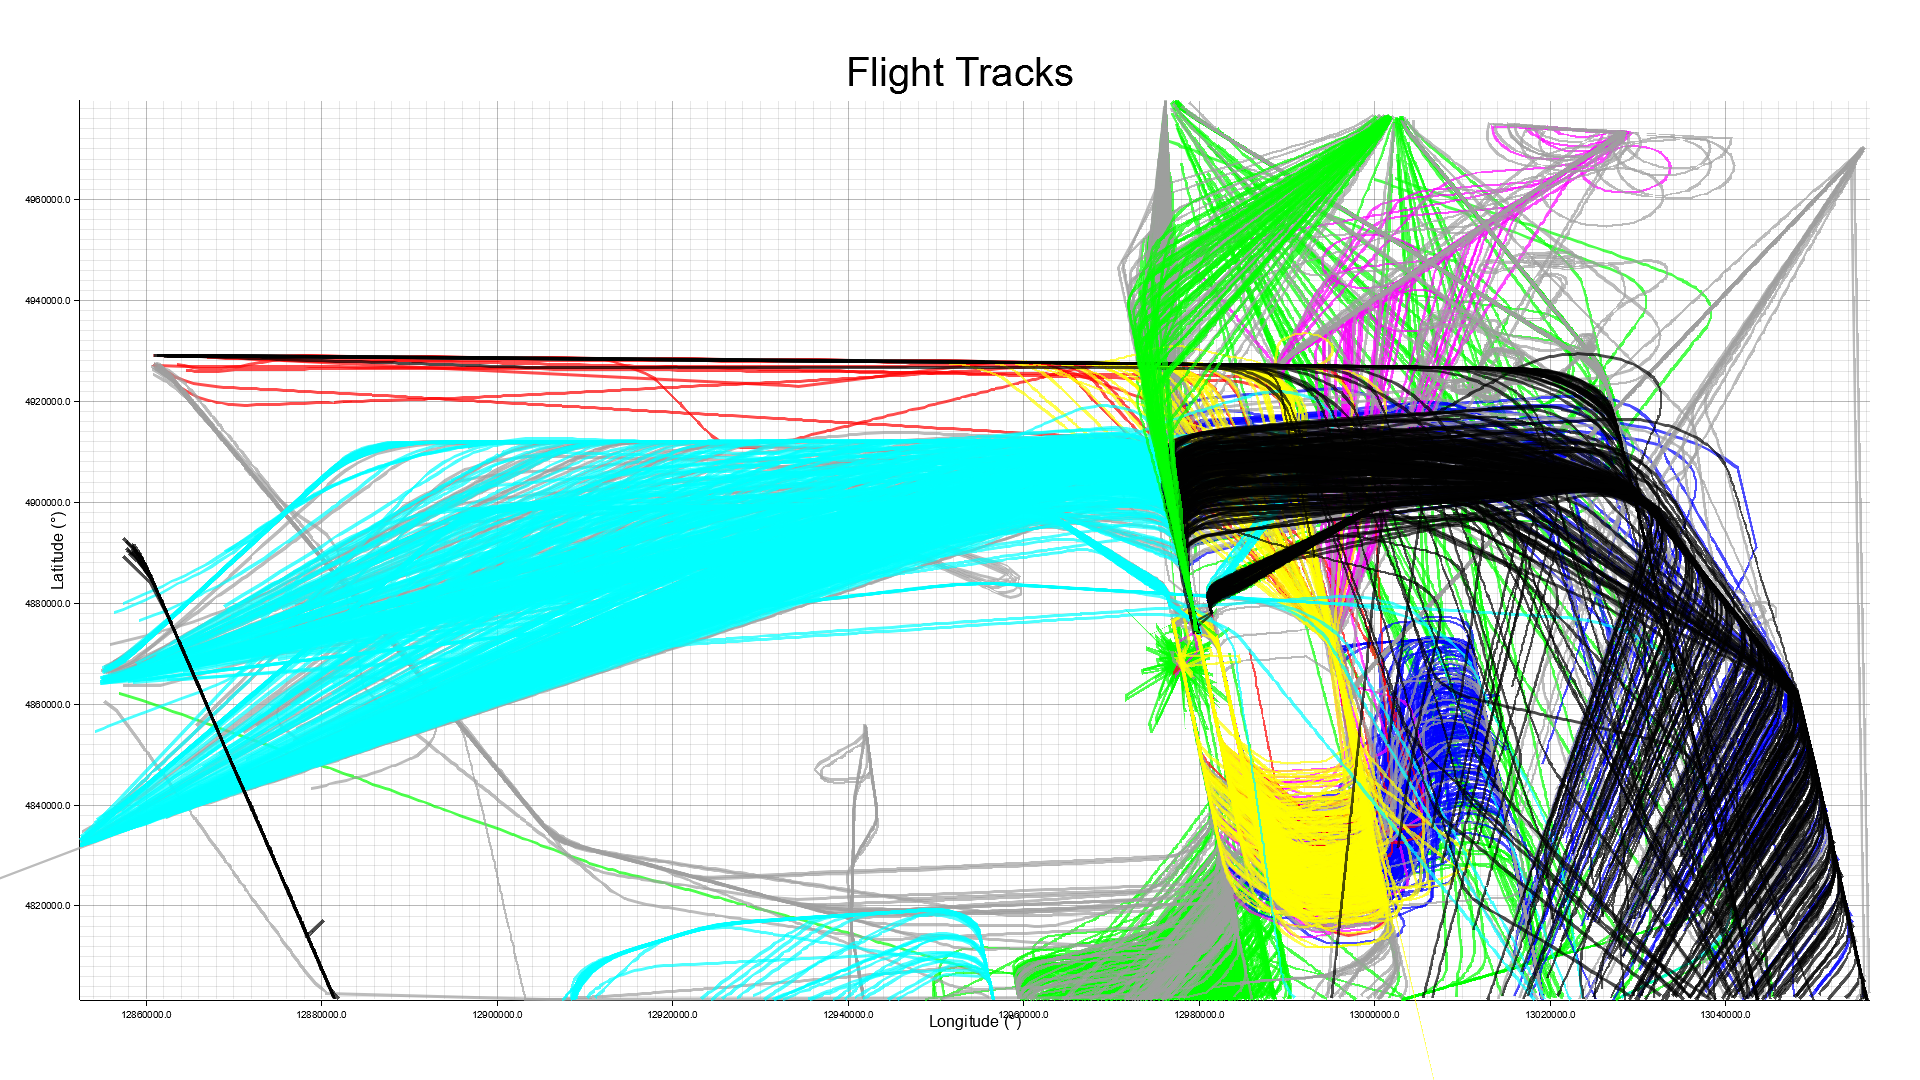
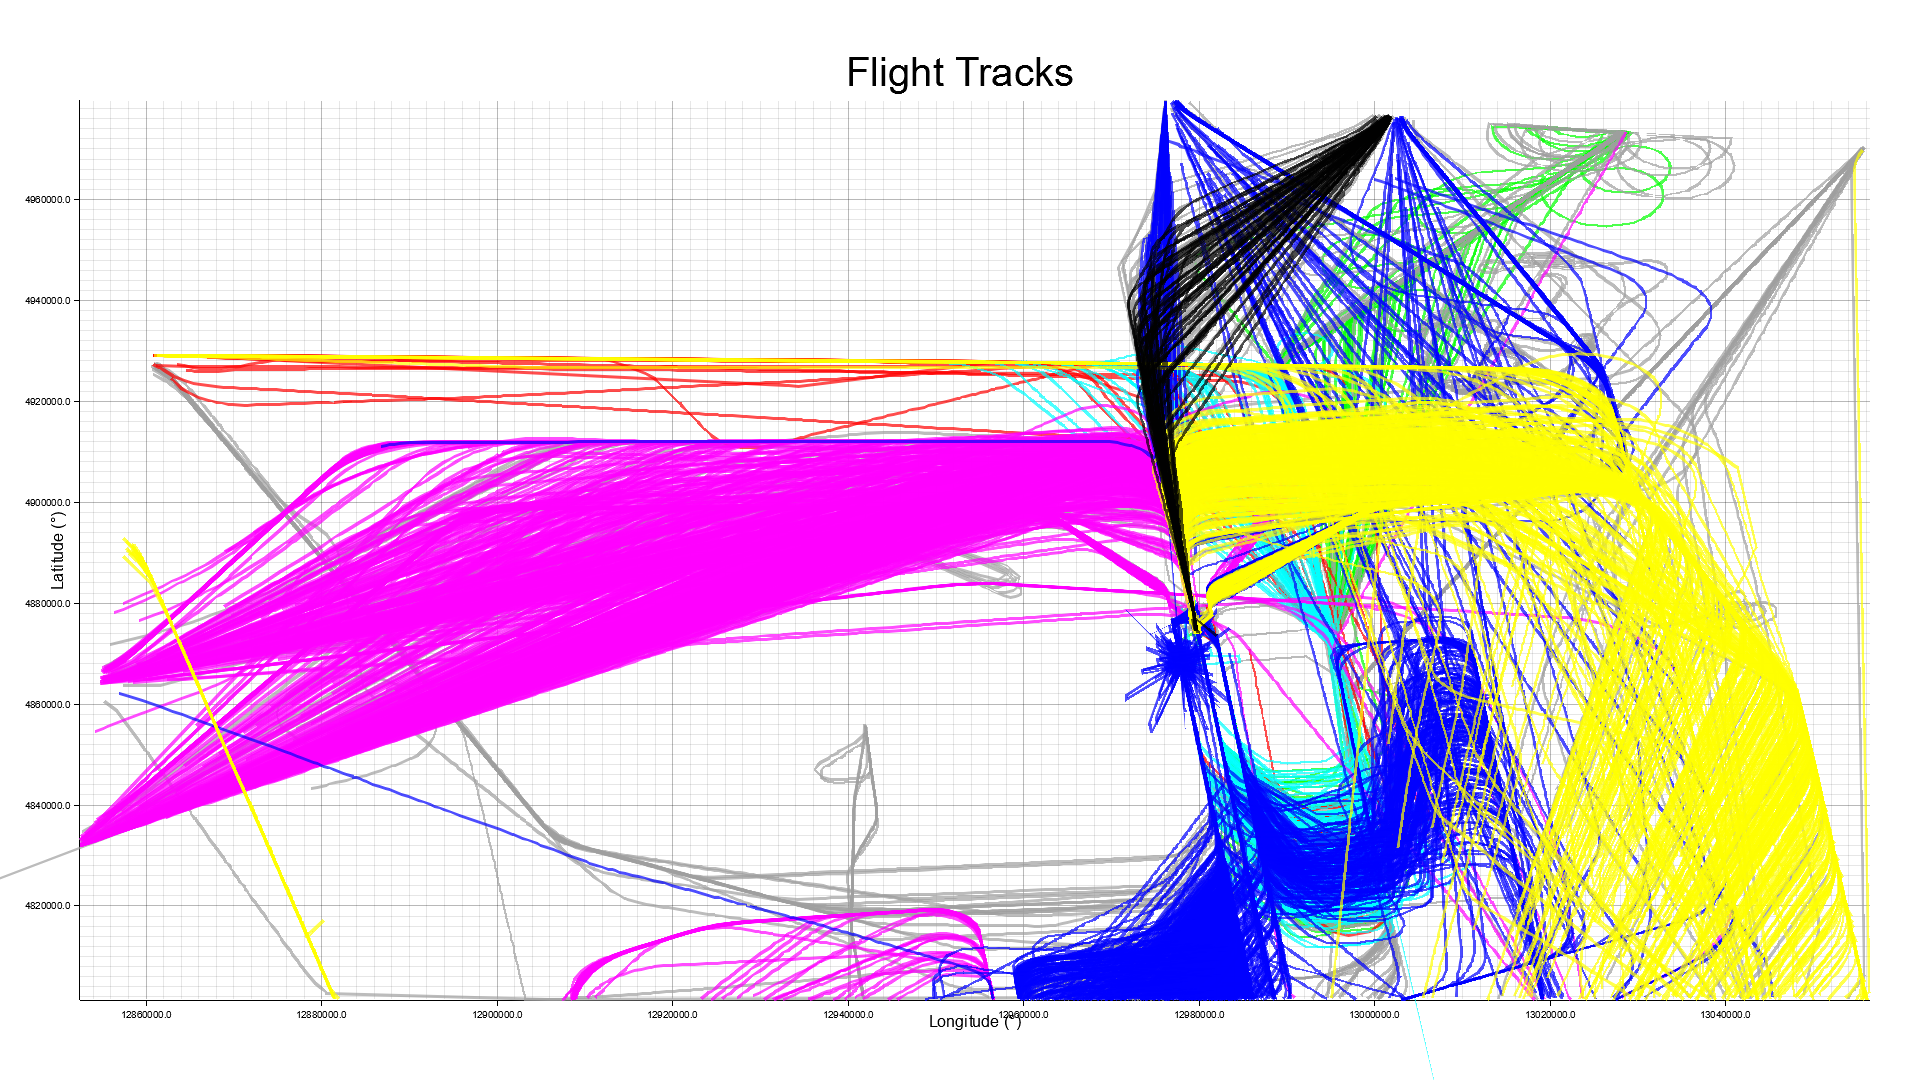
Add calculate_silhouette

diff --git a/crates/dbscan/src/lib.rs b/crates/dbscan/src/lib.rs
@@ -1,6 +1,6 @@
 use chrono::{Duration, NaiveDateTime};
 use std::cmp::Ordering;
-use std::collections::VecDeque;
+use std::collections::{HashMap, VecDeque};
 
 // 二维点结构
 #[derive(Debug, Clone, PartialEq)]
@@ -24,7 +24,7 @@ pub struct Trajectory {
 }
 
 // 轨迹聚类包装结构
-#[derive(Debug)]
+#[derive(Debug, Clone)]
 pub struct TrajectoryClusterWrapper {
     pub trajectory: Trajectory,
     pub cluster_id: Option<usize>,
@@ -239,5 +239,72 @@ pub fn do_cluster(
         orig.is_classified = resampled.is_classified;
     }
 
-    println!("Generated {} clusters", cluster_id);
+    // println!("Generated {} clusters", cluster_id);
+    print!("{},", cluster_id);
+    // 
+    // // 在聚类函数中调用
+    let silhouette = calculate_silhouette(&resampled);
+    println!("Cluster quality：");
+    println!("  - Silhouette Coefficient: {:.3}", silhouette);
+    println!("  - Ratio of Noise: {:.3}", resampled.iter().filter(|x| x.cluster_id.is_none()).count() as f64 / resampled.len() as f64);
+}
+
+
+// 轮廓系数计算
+pub fn calculate_silhouette(data: &[TrajectoryClusterWrapper]) -> f64 {
+    let cluster_map = build_cluster_map(data);
+    if cluster_map.len() <= 1 {
+        return 0.0; // 单簇无法计算轮廓系数
+    }
+
+    let mut total_score = 0.0;
+    let mut count = 0;
+
+    for (i, point) in data.iter().enumerate() {
+        if let Some(cluster_id) = point.cluster_id {
+            // 计算a：同簇内的平均距离
+            let a = cluster_map[&cluster_id]
+                .iter()
+                .filter(|&&j| j != i)
+                .map(|&j| trajectory_distance(&point.trajectory, &data[j].trajectory))
+                .sum::<f64>() / (cluster_map[&cluster_id].len() - 1) as f64;
+
+            // 计算b：到最近其他簇的最小平均距离
+            let b = cluster_map
+                .iter()
+                .filter(|&(&k, _)| k != cluster_id)
+                .map(|(_, members)| {
+                    members
+                        .iter()
+                        .map(|&j| trajectory_distance(&point.trajectory, &data[j].trajectory))
+                        .sum::<f64>()
+                        / members.len() as f64
+                })
+                .fold(f64::INFINITY, |a, b| a.min(b));
+
+            let s_i = if a < b {
+                (b - a) / b.max(a)
+            } else if a > b {
+                (b - a) / a
+            } else {
+                0.0
+            };
+
+            total_score += s_i;
+            count += 1;
+        }
+    }
+
+    total_score / count as f64
+}
+
+// 辅助函数
+fn build_cluster_map(data: &[TrajectoryClusterWrapper]) -> HashMap<usize, Vec<usize>> {
+    let mut map = HashMap::new();
+    for (i, d) in data.iter().enumerate() {
+        if let Some(cid) = d.cluster_id {
+            map.entry(cid).or_insert_with(Vec::new).push(i);
+        }
+    }
+    map
 }

diff --git a/crates/core/main.rs b/crates/core/main.rs
@@ -1,9 +1,9 @@
-use dbscan::{Trajectory, TrajectoryClusterWrapper, do_cluster};
+use dbscan::{do_cluster, Trajectory, TrajectoryClusterWrapper};
+use plotters::prelude::full_palette::GREY;
+use plotters::prelude::*;
 use projection::ll_to_wmc;
 use reader::read_csv;
 use std::collections::HashMap;
-use plotters::prelude::*;
-use plotters::prelude::full_palette::GREY;
 
 fn plot_tracks(data: &HashMap<Option<usize>, Vec<Vec<(f64, f64)>>>) -> Result<(), Box<dyn std::error::Error>> {
     // 1. 创建绘图区域
@@ -37,8 +37,8 @@ fn plot_tracks(data: &HashMap<Option<usize>, Vec<Vec<(f64, f64)>>>) -> Result<()
     // 4. 配置坐标轴
     chart
         .configure_mesh()
-        .x_desc("Longitude (°)")
-        .y_desc("Latitude (°)")
+        .x_desc("Longitude")
+        .y_desc("Latitude")
         .axis_desc_style(("sans-serif", 20))
         .draw()?;
 
@@ -87,8 +87,14 @@ fn main() {
             .collect();
 
     println!("do cluster");
+
+    for i in 30..60 {
+        print!("{:.1},", i as f64 * 0.1);
+        let mut data_new = data.clone();
+        do_cluster(&mut data_new, 100, i as f64 * 0.1, 40);
+    }
     // 聚类
-    do_cluster(&mut data, 100, 3.8, 40);
+    do_cluster(&mut data, 100, 4.2, 40);
 
     println!("{}", data.len());
 
@@ -101,7 +107,7 @@ fn main() {
     });
 
     println!("{:?}", result.keys());
-    
+
     // 绘图
     let t = result
         .into_iter()
@@ -121,6 +127,6 @@ fn main() {
             )
         })
         .collect::<HashMap<_, _>>();
-    
+
     plot_tracks(&t).unwrap();
 }
